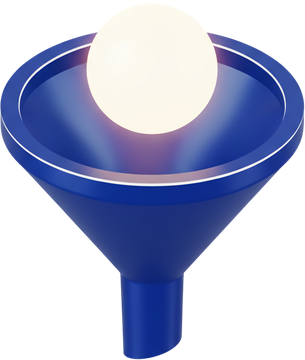
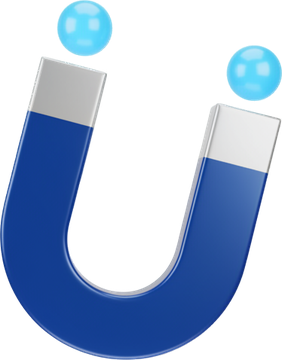
fix(site): иконка «Ловим лида» — причина жалоб была в КЭШЕ (src без версии отдавал старый кривой магнит). Добавил cache-buster ?v=2 ко всем иконкам сборки + перегенерировал чистый магнит (isnet+alpha-matting+numpy-очистка halo) с идеальным вырезом

diff --git a/public/site.html b/public/site.html
@@ -1120,11 +1120,11 @@ html[data-theme="dark"] .pcard .hrlist svg{color:var(--sky)}
       </div>
       <div class="asm-stage" id="asmStage">
         <div class="asm-line" id="asmLine"></div>
-        <div class="asm-piece" data-i="0"><div class="fig"><img src="/assets/site/asm-0.png" alt="" loading="lazy"></div><div class="lb">Ловим лида</div><div class="sub">все каналы разом</div></div>
-        <div class="asm-piece" data-i="1"><div class="fig"><img src="/assets/site/asm-1.png" alt="" loading="lazy"></div><div class="lb">Отвечаем первыми</div><div class="sub">WhatsApp за секунды</div></div>
-        <div class="asm-piece" data-i="2"><div class="fig"><img src="/assets/site/asm-2.png" alt="" loading="lazy"></div><div class="lb">Понимаем клиента</div><div class="sub">психо-портрет</div></div>
-        <div class="asm-piece" data-i="3"><div class="fig"><img src="/assets/site/asm-3.png" alt="" loading="lazy"></div><div class="lb">Показываем объект</div><div class="sub">живые подборки</div></div>
-        <div class="asm-piece" data-i="4"><div class="fig"><img src="/assets/site/asm-4.png" alt="" loading="lazy"></div><div class="lb">Доводим до сделки</div><div class="sub">под контролем</div></div>
+        <div class="asm-piece" data-i="0"><div class="fig"><img src="/assets/site/asm-0.png?v=2" alt="" loading="lazy"></div><div class="lb">Ловим лида</div><div class="sub">все каналы разом</div></div>
+        <div class="asm-piece" data-i="1"><div class="fig"><img src="/assets/site/asm-1.png?v=2" alt="" loading="lazy"></div><div class="lb">Отвечаем первыми</div><div class="sub">WhatsApp за секунды</div></div>
+        <div class="asm-piece" data-i="2"><div class="fig"><img src="/assets/site/asm-2.png?v=2" alt="" loading="lazy"></div><div class="lb">Понимаем клиента</div><div class="sub">психо-портрет</div></div>
+        <div class="asm-piece" data-i="3"><div class="fig"><img src="/assets/site/asm-3.png?v=2" alt="" loading="lazy"></div><div class="lb">Показываем объект</div><div class="sub">живые подборки</div></div>
+        <div class="asm-piece" data-i="4"><div class="fig"><img src="/assets/site/asm-4.png?v=2" alt="" loading="lazy"></div><div class="lb">Доводим до сделки</div><div class="sub">под контролем</div></div>
       </div>
       <div class="asm-final" id="asmFinal"><div class="big">Хаос заявок → <em>управляемая выручка</em></div></div>
     </div>
